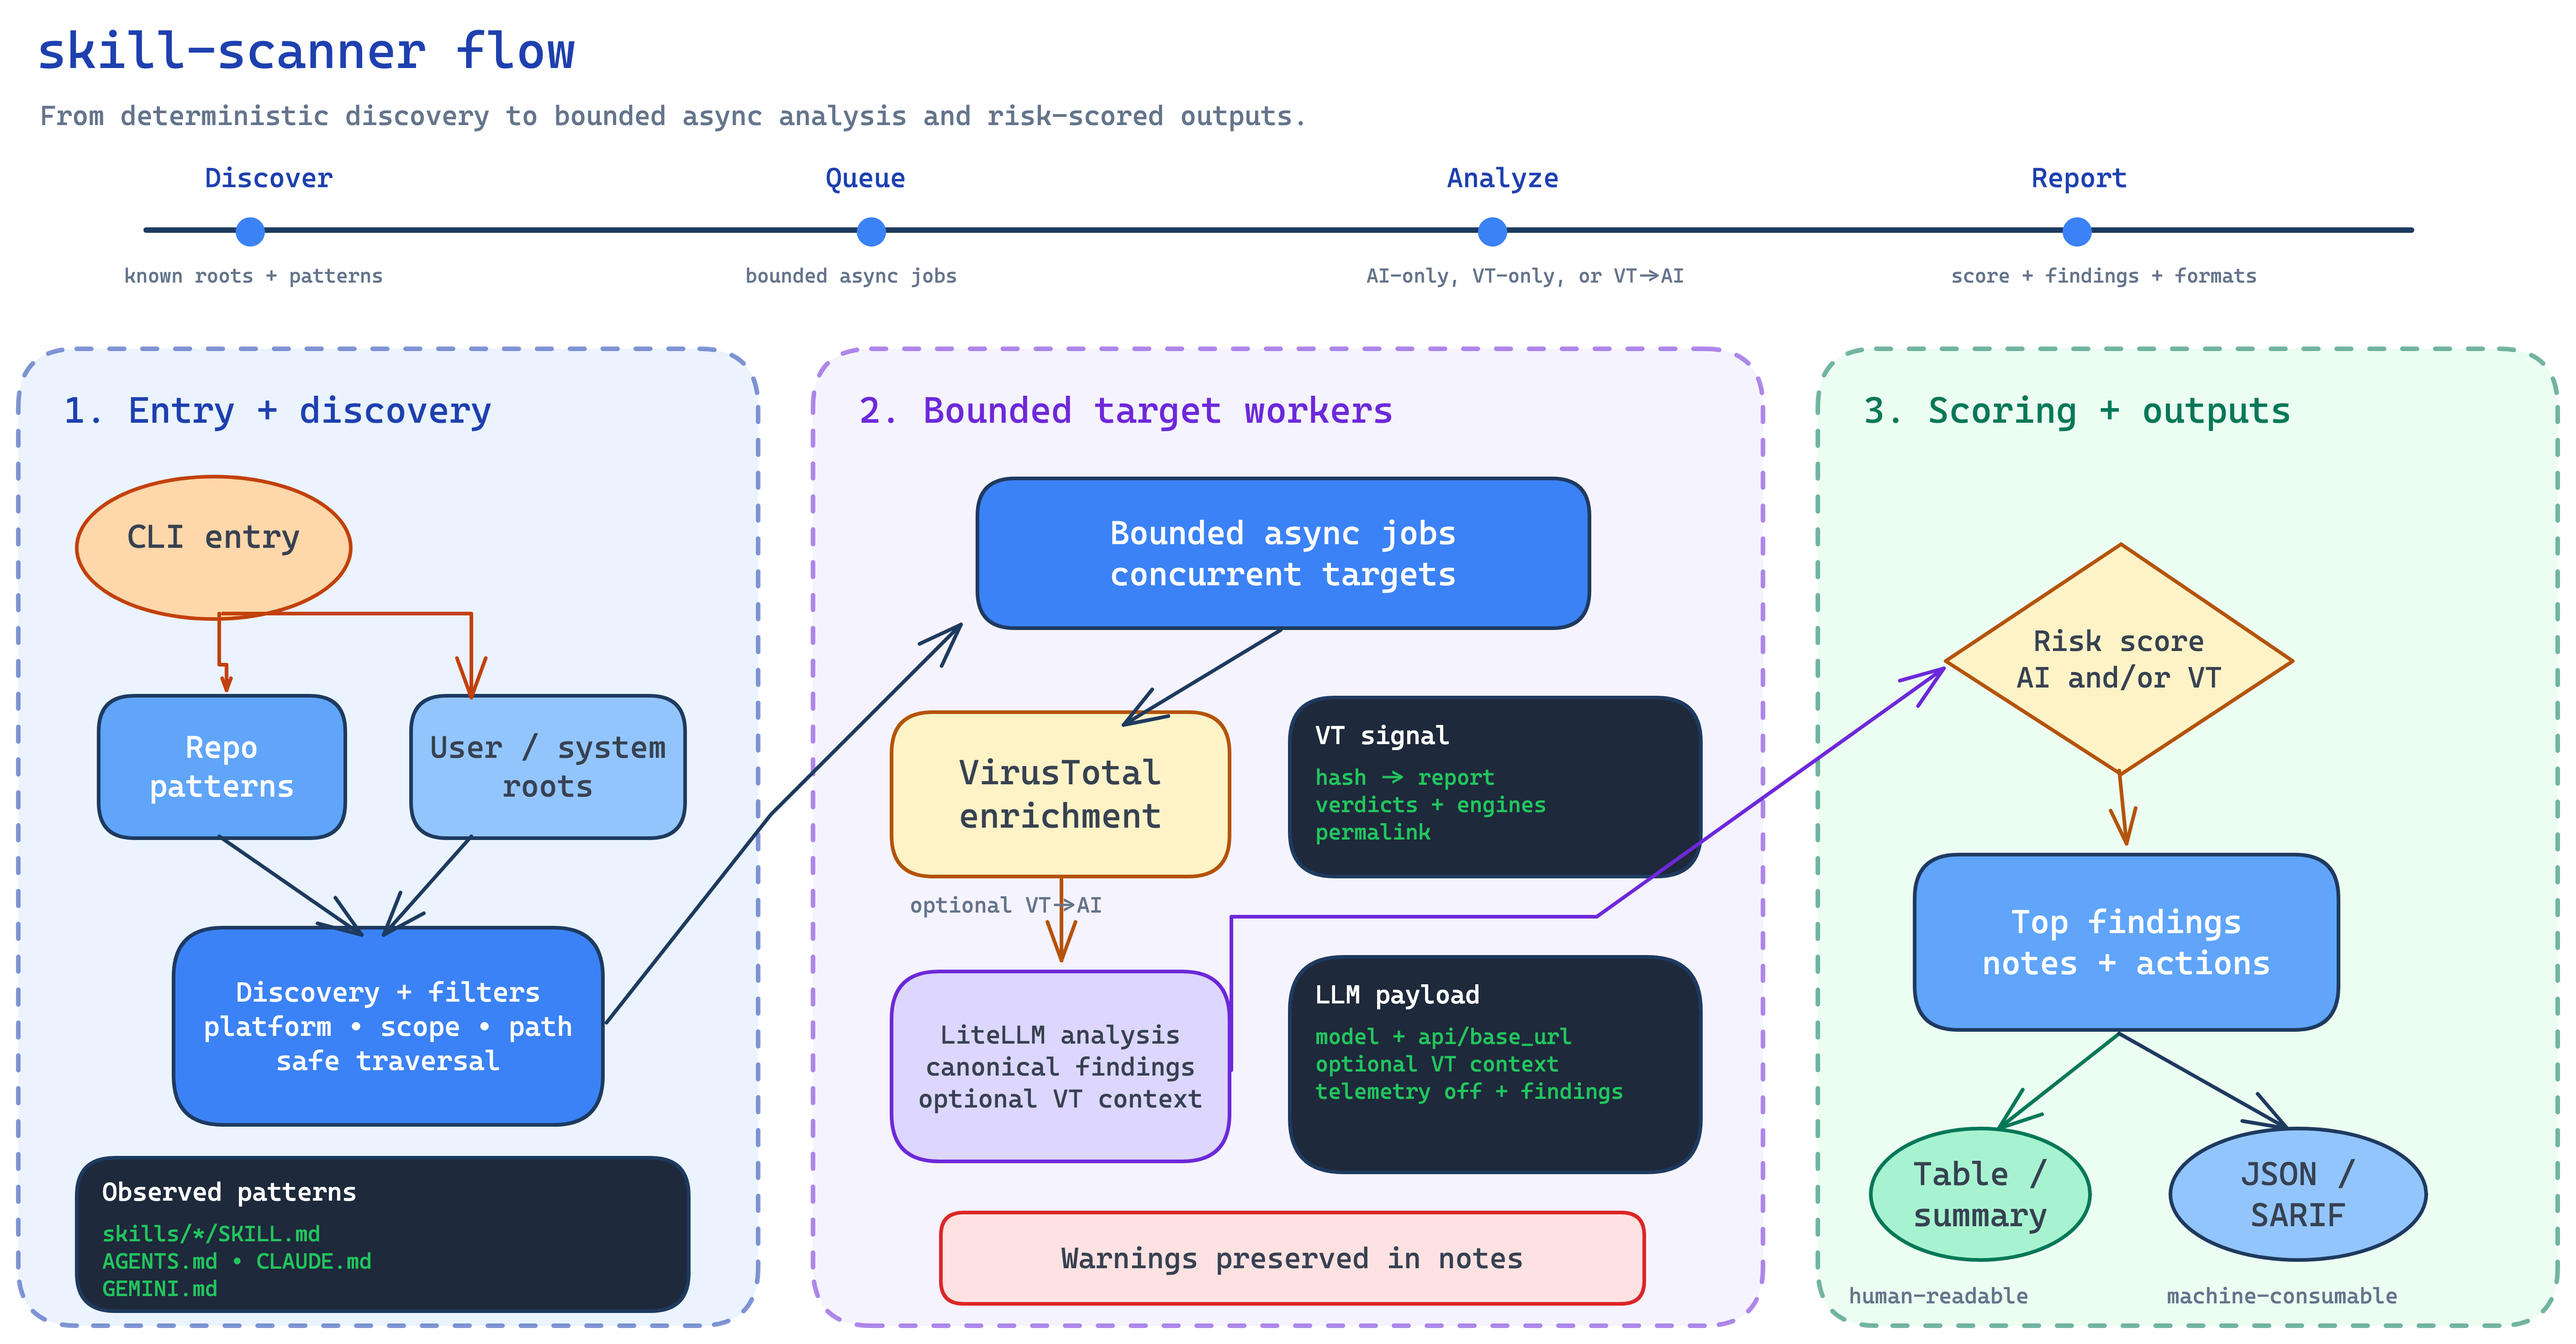
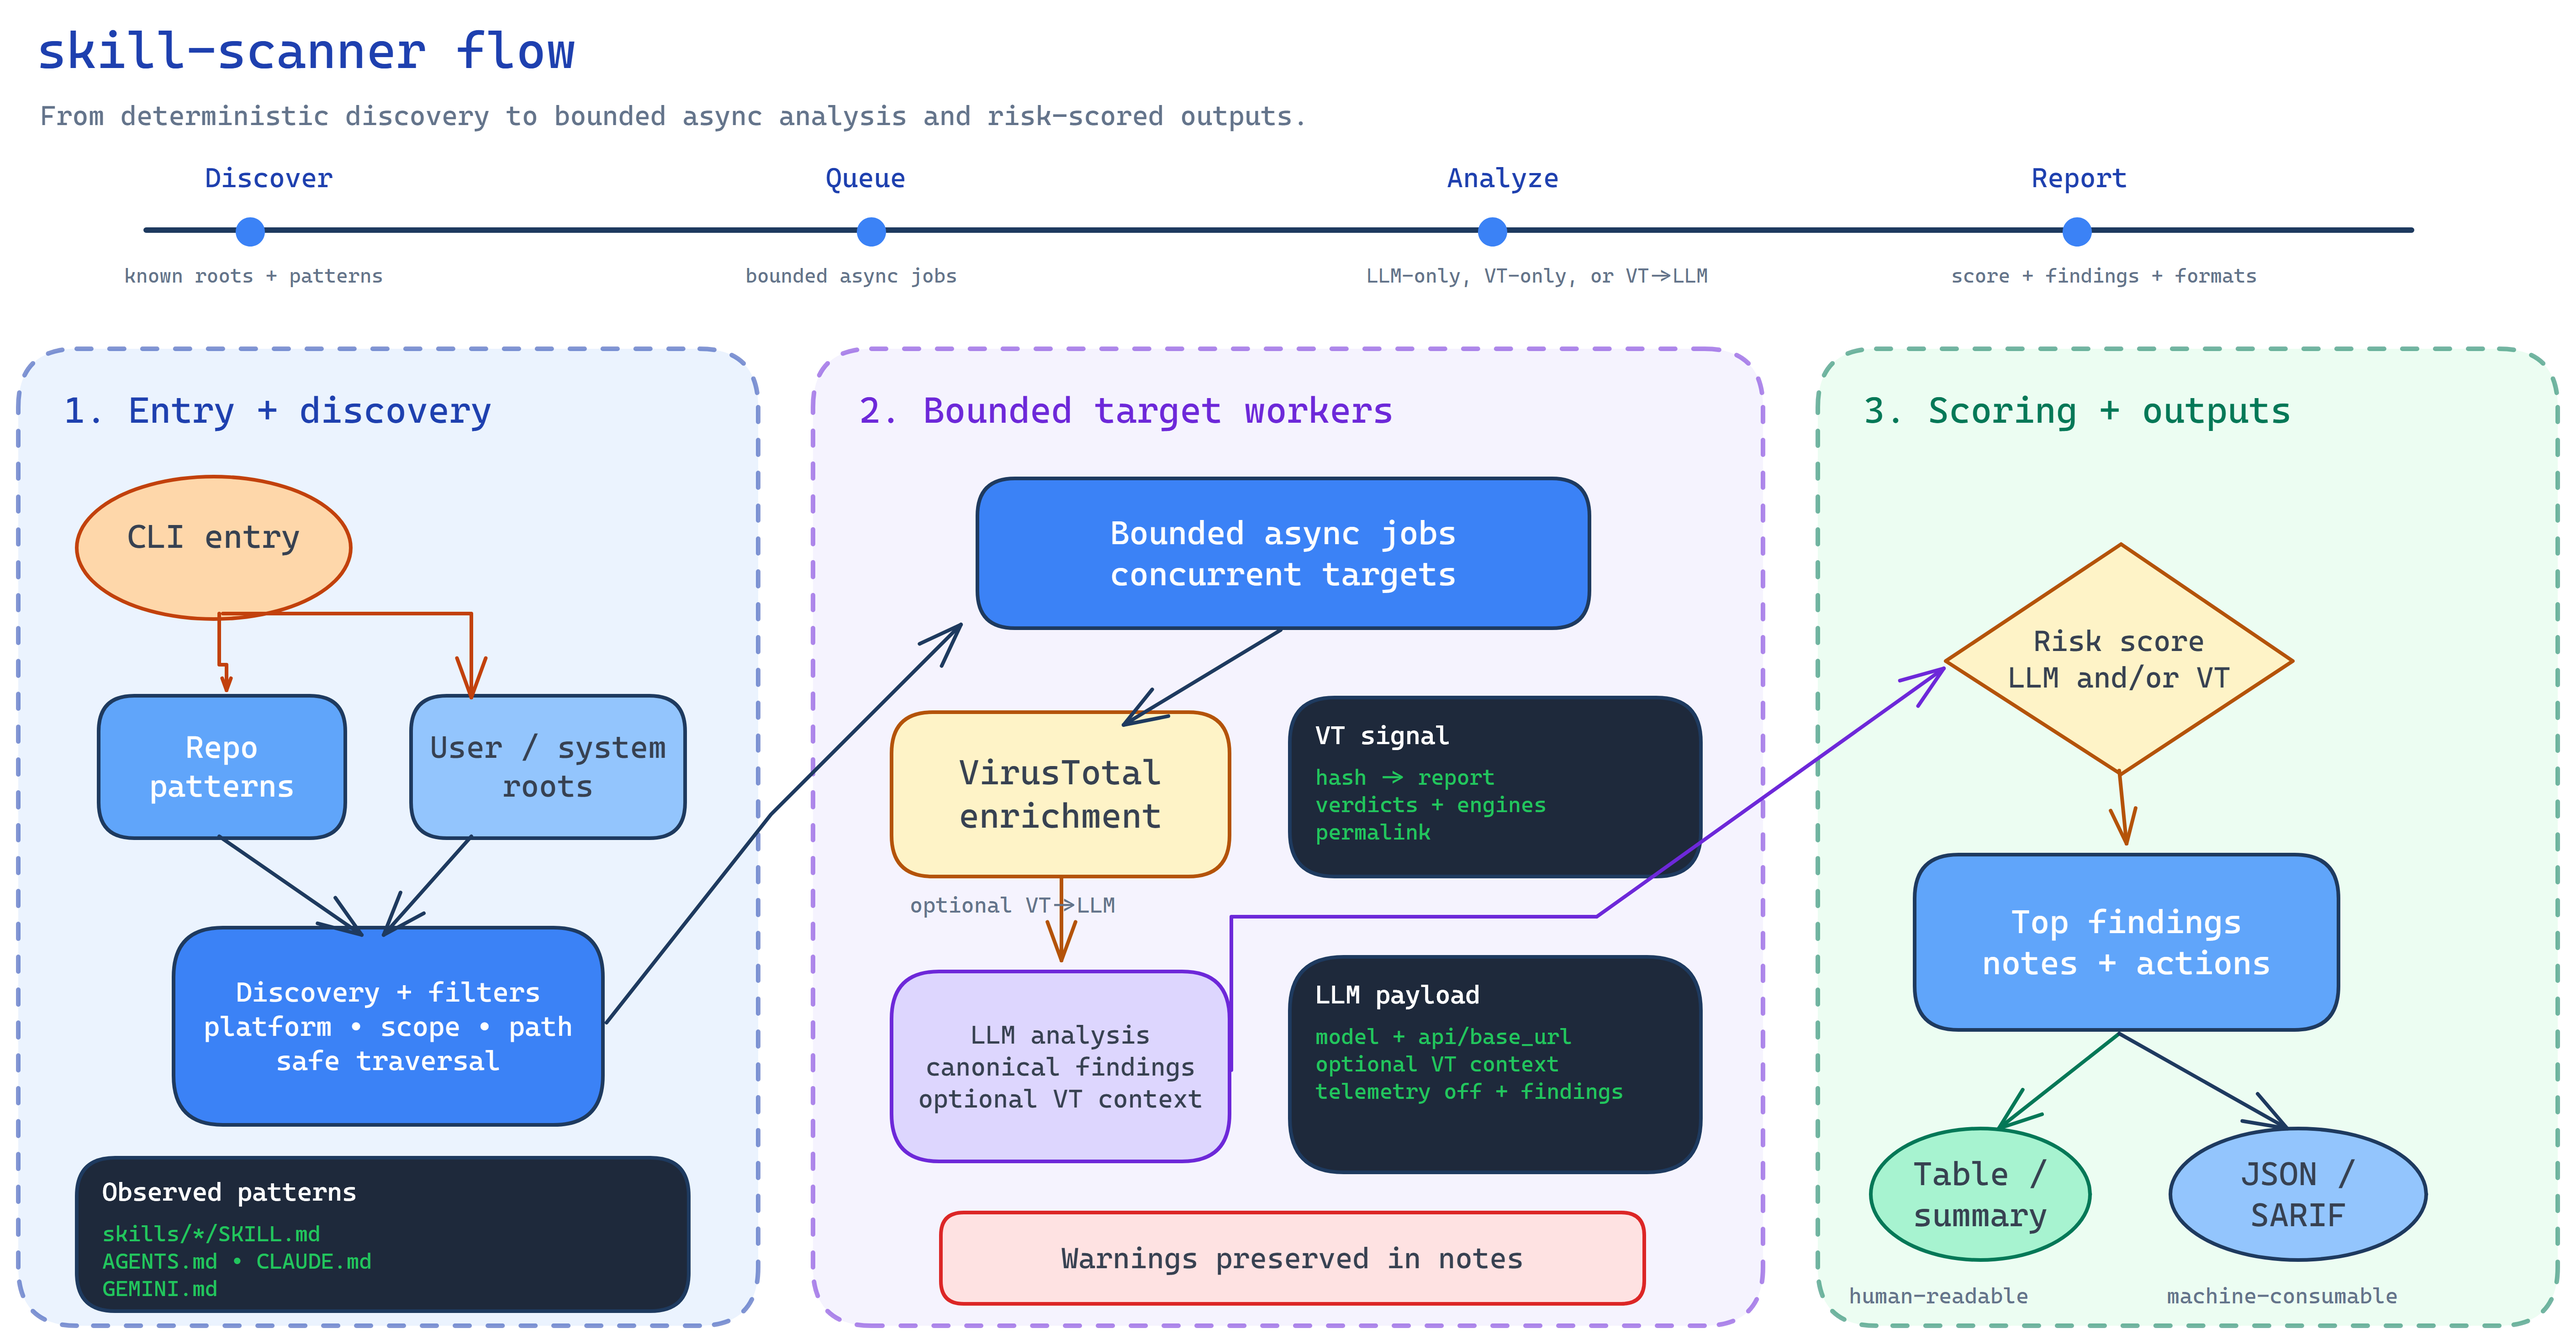
docs: standardize LLM terminology in README and architecture diagram (#36) [skip ci]
## Summary
- standardize terminology to LLM analysis across the docs
- update the architecture diagram text to match
- keep the wording focused on the model doing the analysis

## Scope
- docs only
- no runtime code changes
- no behavior changes

diff --git a/README.md b/README.md
@@ -10,7 +10,7 @@
 [![Security Policy](https://img.shields.io/badge/security-policy-blue.svg)](https://github.com/thedevappsecguy/skill-scanner/blob/main/SECURITY.md)
 
 `skill-scanner` reviews AI skill and instruction artifacts for security risk using:
-- LiteLLM-based AI analysis
+- LLM analysis
 - VirusTotal analysis
 
 ## Architecture flow
@@ -21,7 +21,7 @@
 
 - Python 3.11+
 - [`uv`](https://docs.astral.sh/uv/)
-- LiteLLM-compatible LLM configuration and/or VirusTotal API key (at least one analyzer)
+- LiteLLM-compatible model configuration and/or VirusTotal API key (at least one analyzer)
 
 ## Install (from PyPI)
 
@@ -29,7 +29,7 @@
 uv pip install skill-scanner
 ```
 
-Base install includes LiteLLM-based AI analysis and VirusTotal support.
+Base install includes LLM analysis and VirusTotal support.
 
 ## Install (from source)
 
@@ -103,11 +103,11 @@ uv run skill-scanner scan --format summary
 `scan` requires at least one analyzer enabled.
 
 - There is no built-in model default. Set `SKILLSCAN_MODEL` explicitly or pass `--model`.
-- If `SKILLSCAN_MODEL` plus either `SKILLSCAN_API_KEY` or `SKILLSCAN_BASE_URL` is available, AI runs.
-- If only `VT_API_KEY` is available, VT runs and AI is disabled.
-- If both AI config and `VT_API_KEY` are available, both analyzers run and VT context is passed into AI analysis.
+- If `SKILLSCAN_MODEL` plus either `SKILLSCAN_API_KEY` or `SKILLSCAN_BASE_URL` is available, LLM analysis runs.
+- If only `VT_API_KEY` is available, VT runs and LLM analysis is disabled.
+- If both LLM config and `VT_API_KEY` are available, both analyzers run and VT context is passed into the LLM analysis.
 - You can disable either analyzer with `--no-ai` or `--no-vt`.
-- AI analysis requires an explicit `SKILLSCAN_MODEL` or `--model` value.
+- LLM analysis requires an explicit `SKILLSCAN_MODEL` or `--model` value.
 
 Use `doctor --check` to verify model/API/base URL connectivity.
 Use [`models.litellm.ai`](https://models.litellm.ai/) to choose a supported LiteLLM model string.
@@ -208,6 +208,7 @@ Security best practice:
 
 ## LiteLLM privacy
 
+- LiteLLM is the SDK and routing layer; the configured LLM performs the analysis.
 - `skill-scanner` disables LiteLLM telemetry before making SDK calls.
 - `skill-scanner` clears LiteLLM callback hooks in its SDK integration path.
 - `models.litellm.ai` is documentation for choosing model strings; the package does not query or sync it at runtime.
